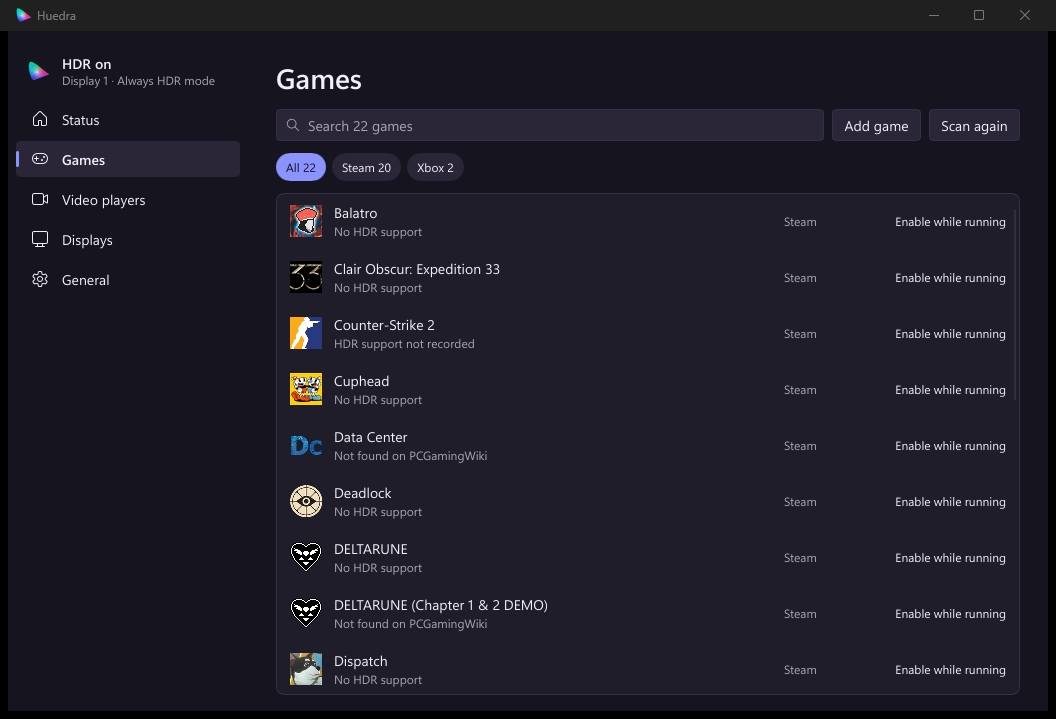
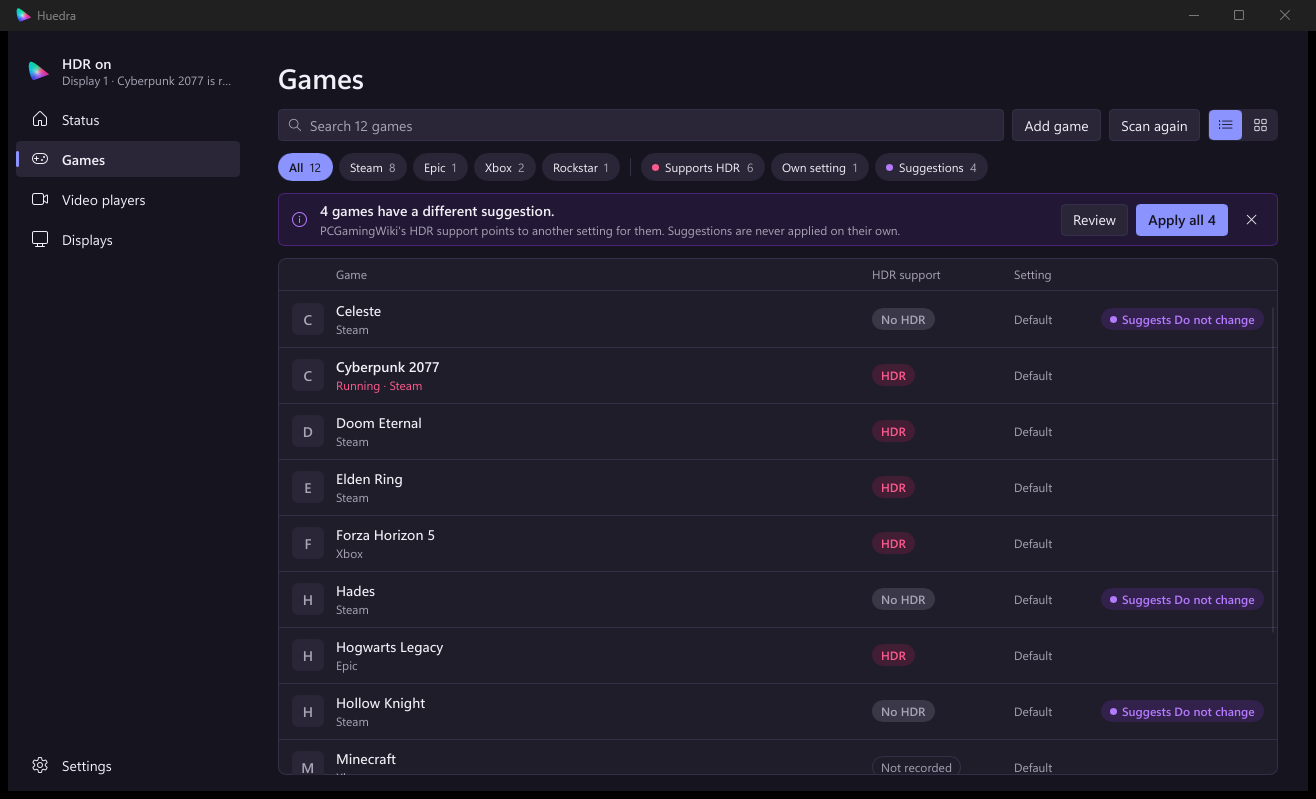
docs: README tour and Games screenshot of the new UI, with sample data
Taken from the sample build on a hidden desktop: popular games and
monitors, simulated HDR. Also: the Status cards are equal halves, and
a sample build can name a release version for screenshots.

diff --git a/crates/huedra-ui/src/app.rs b/crates/huedra-ui/src/app.rs
@@ -185,6 +185,12 @@ pub fn run(locations: Locations, page: Page) -> Result<(), slint::PlatformError>
     }
     ui.set_page(page as i32);
     ui.set_version(huedra_core::VERSION.into());
+    // Screenshots from a sample build name a release, not the workspace's
+    // 0.1.0.
+    #[cfg(feature = "sample")]
+    if let Ok(version) = std::env::var("HUEDRA_SAMPLE_VERSION") {
+        ui.set_version(version.into());
+    }
     ui.set_update_note(update_note(&locations.update).into());
     #[cfg(feature = "sample")]
     ui.set_data_folder(sample::DATA_FOLDER.into());
@@ -1914,6 +1920,9 @@ fn offer_update(ui: &SettingsWindow, force: bool) {
 fn update_note(path: &std::path::Path) -> String {
     use huedra_core::update::{self, UpdateState};
 
+    if cfg!(feature = "sample") {
+        return "Last checked an hour ago.".to_owned();
+    }
     if !update::is_available() {
         return "This build has no release address, so no checks are made.".to_owned();
     }

diff --git a/README.md b/README.md
@@ -21,7 +21,7 @@
 > Huedra changes a Windows display setting; please read the [disclaimer](#disclaimer) before using it.
 
 <p align="center">
-  <img src="docs/assets/huedra-tour.gif" width="820" alt="The Huedra window: status, games, video players, displays and general settings">
+  <img src="docs/assets/huedra-tour.gif" width="820" alt="The Huedra window, shown with sample data: HDR turning on for a game on the Status page, the Games list and cover grid, video players, displays, settings, and the quick panel from the tray icon">
 </p>
 
 ## Why Huedra
@@ -35,13 +35,14 @@ Windows HDR makes HDR games and video look as intended, but it makes the desktop
 | **Games, found automatically** | Reads the libraries of Steam, Epic Games, GOG, Xbox, Ubisoft Connect, EA app, Rockstar Games, Battle.net, Riot Games, HoYoPlay, Amazon Games, itch.io and Heroic Games Launcher, plus the games the Xbox Game Bar recognized. HDR turns on while a game runs, with an optional delay per game and a time to keep HDR on after it closes. |
 | **HDR video** | VLC, mpv, MPC-HC, MPC-BE and PotPlayer, by the title of the file playing. YouTube and streaming sites through the Huedra browser extension. RTX Video HDR aware. |
 | **The right display** | Only the display showing the game or video switches, and HDR follows the window to another display. Always HDR mode and the shortcut switch only the main display, unless you choose every display. |
+| **Quick panel** | A click on the tray icon shows whether HDR is on and why, the mode, and a switch per display, with Pause and Never for the game running, without opening the window. |
 | **Start with HDR** | For games that misbehave when HDR changes while they start: a Steam launch option, a desktop shortcut, or a File Explorer menu entry turns HDR on first. |
 | **Light on the system** | One small executable, no installer, no background polling: Huedra waits for Windows to report a change. About 2 MB of memory. |
 | **Safe by design** | Runs without administrator rights. Never reads or writes another program's memory. Updates install only with a valid signature, and keep your settings. |
 | **Private** | No accounts and no telemetry. See [PRIVACY.md](PRIVACY.md). |
 
 <p align="center">
-  <img src="docs/assets/screenshot-games.png" width="820" alt="The Games page, listing installed games with their HDR settings">
+  <img src="docs/assets/screenshot-games.png" width="820" alt="The Games page with sample data: each game's HDR support, its setting, and PCGamingWiki's suggestions">
 </p>
 
 ## Getting started

diff --git a/docs/features/08-settings-window.md b/docs/features/08-settings-window.md
@@ -173,3 +173,7 @@ Not verified: the real tray (no game was started; the dashboard was fed by the s
 Code: `run` in `crates/huedra-ui/src/app.rs` (`MICA_BUILD`), `mica` in `app.slint`, `registry::windows_build`.
 - The test build asked Windows for the Mica backdrop (`BackdropType::MainWindow`, transparent window) with the navigation pane left without a background: the software renderer leaves those pixels transparent and Windows draws Mica behind them. Captured from the screen on this PC: the pane showed a blue tint varying from (27, 33, 42) to (30, 32, 36) against the page's (22, 20, 30). So it ships: on Windows 11 build 22621 and later the navigation pane shows Mica; earlier builds keep the solid color (a transparent pane would be black there). Pages, cards and controls stay solid, so the palette is unchanged where it matters. Sample builds use it only with `HUEDRA_SAMPLE_MICA`, since a capture of a hidden window cannot show it.
 Not verified: the light theme with Mica, an inactive window (Windows shows Mica plainer then), "Transparency effects" off.
+
+## Result (2026-11-07) — README images
+- `docs/assets/huedra-tour.gif` and `docs/assets/screenshot-games.png` were taken again from the sample build (`dist/huedra-sample.exe`) on a hidden desktop: twelve popular games, the ROG Strix XG27UCS, Alienware AW3423DWF and Dell P2422H, simulated HDR, so no display of this PC switched and no network lookup was made. The tour: Status in SDR, Automatic turning HDR on for Cyberpunk 2077, Games as list and cover grid, Video players, Displays, Settings, the quick panel over the dimmed window, back to SDR (820 x 558, 12 fps, 279 frames, 4,528,459 bytes; the old tour was 2.7 MB with four scenes fewer). The Games screenshot is 1316 x 799, wide enough for the Setting column. `HUEDRA_SAMPLE_VERSION=1.2.0` names a release in About (the workspace says 0.1.0), and a sample build's Updates line reads "Last checked an hour ago." Every frame was checked: sample names only, the settings folder shown as `%LOCALAPPDATA%\Huedra`.
+
